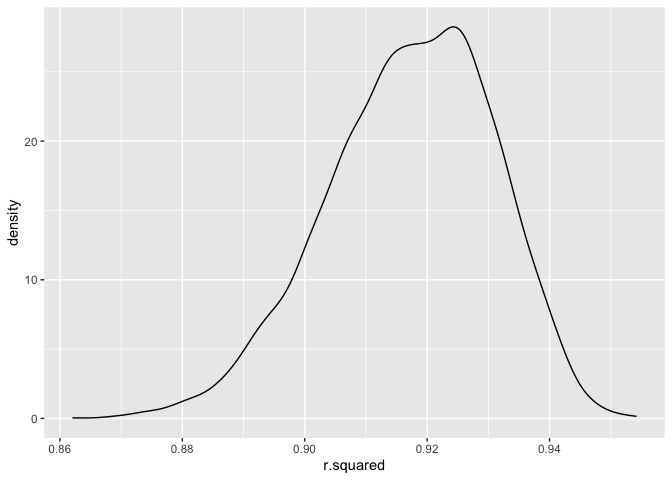
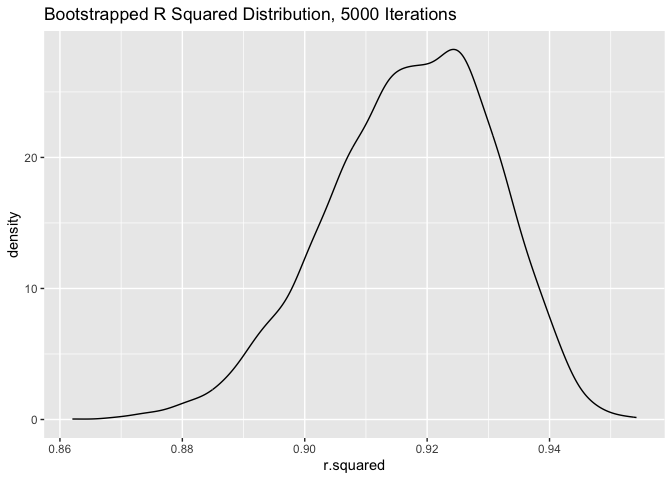
Prob. 2 wrapping up confidence interval calculation work for the two bootstrapped values. Minor grammar and formatting edits.

diff --git a/p8105_hw6_agd2159.md b/p8105_hw6_agd2159.md
@@ -222,7 +222,7 @@ boot_results |>
   select(results_rsq) |> 
   unnest(results_rsq) |> 
   ggplot(aes(x = r.squared)) + 
-  geom_density()
+  geom_density() + labs(title = "Bootstrapped R Squared Distribution, 5000 Iterations")
 ```
 
 ![](p8105_hw6_agd2159_files/figure-gfm/modelr::bootstrap%20function-1.png)<!-- -->
@@ -233,14 +233,18 @@ Squared values. Although there appears to be a slight left skew in this
 R squared model even after 5000 replications.
 
 Next, we will use the beta coefficients to compute the second value over
-5000 iterations, “log(beta1\*beta2)
+5000 iterations, “log(beta1\*beta2)”
 
 ``` r
 #Broom::tidy() function places all coefficients in one single column, need to separate the coefficients of interest tmin as beta1 and prcp as beta2
 
+#Needed to keep r.squared values for confidence interval calc in next chunk, added those results into this dataframe for comparisons.
+
 boot_calculations = boot_results |> 
   unnest(results_beta) |> 
-  select(strap_number, term, estimate) |> 
+  select(strap_number, term, estimate, results_rsq) |> 
+  unnest(results_rsq) |> 
+  select(strap_number, term, estimate, r.squared) |> 
   pivot_wider(
     names_from = term,
     values_from = estimate) |> 
@@ -255,7 +259,7 @@ boot_calculations = boot_results |>
 ``` r
 boot_calculations |> 
   ggplot(aes(x = logbeta1beta2)) + 
-  geom_density()
+  geom_density() + labs(title = "Bootstrapped Log(Tmin*Prcp) Distribution, 5000 Iterations")
 ```
 
     ## Warning: Removed 3365 rows containing non-finite values (`stat_density()`).
@@ -268,16 +272,47 @@ skewed distirbution than the rsquared plot. RStudio notes that 3365 rows
 were dropped due to having NA value, so the 5000 sample size is smaller
 at only 1635 values modeled in this density plot.
 
+Lastly, what are the confidence intervals for these two bootstrapped
+values?
+
 ``` r
-#not finished
-boot_results |> 
-  unnest()
-  group_by(term) |> 
+#added na.rm to remove na's from logged calculation
+
+boot_calculations |>
   summarize(
-    ci_lower = quantile(estimate, 0.025),
-    ci_upper = quantile(estimate, 0.975),
-  )
+  ci_lower = quantile(r.squared, 0.025),
+  ci_upper = quantile(r.squared, 0.975)
+  ) |> 
+  knitr::kable(digits = 3, caption = "CI of r.squared")
 ```
+
+| ci_lower | ci_upper |
+|---------:|---------:|
+|    0.889 |    0.941 |
+
+CI of r.squared
+
+``` r
+boot_calculations |>
+  summarize(
+    ci_lower = quantile(logbeta1beta2, 0.025, na.rm=TRUE),
+    ci_upper = quantile(logbeta1beta2, 0.975, na.rm=TRUE)
+  ) |> 
+  knitr::kable(digits = 3, caption = "CI of log(beta1*beta2)")
+```
+
+| ci_lower | ci_upper |
+|---------:|---------:|
+|   -9.005 |   -4.632 |
+
+CI of log(beta1\*beta2)
+
+From the 5000 Bootstrap, we have two 95% confidence intervals that
+indicate that:
+
+- the R squared value is **between 0.889 and 0.941**
+- the effect calculation of log(beta1beta2) is **between -9.005 and
+  -4.632**
 
 # Problem 3: Cross Validation of Developed Linear Regression - Birthweight Dataset
 
@@ -327,12 +362,12 @@ depress appetite, limit caloric intake, and lead to signficant weight
 loss in smokers, and the potential impact that being an underweight
 women may have on developing a child in utero.
 
-Ahead of fitting these predictor variables to the response variable of
-birthweight `bwt`, I hypothesize that the three predictor variables
-**will each have a statistically significant association with
-birthweight, where both increased smoking and presence of malformations
-will have a negative association with birthweight, and lower mother
-weight will correspond with lower birthweight.**
+**Initial Model Hypothesis:** Ahead of fitting these predictor variables
+to the response variable of birthweight `bwt`, I hypothesize that the
+three predictor variables will each have a statistically significant
+association with birthweight, where both increased smoking and presence
+of malformations will have a negative association with birthweight, and
+lower mother weight will correspond with lower birthweight.
 
 I began by also running quick scatterplots of the available data for
 these 3 predictor variables using `geom_point`:
